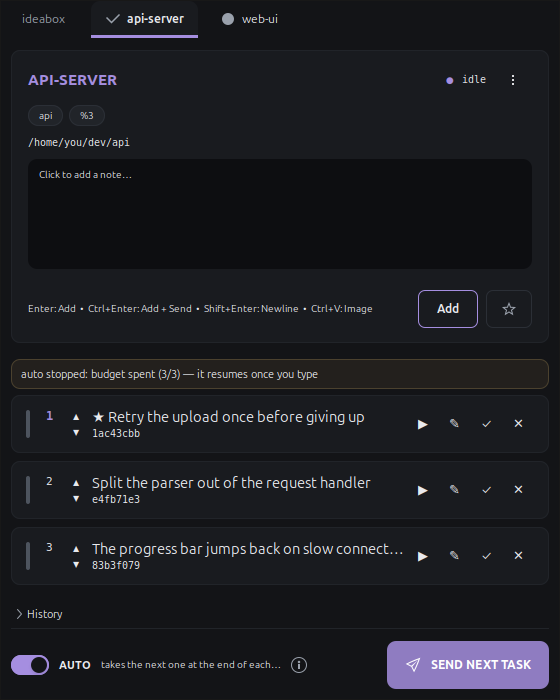
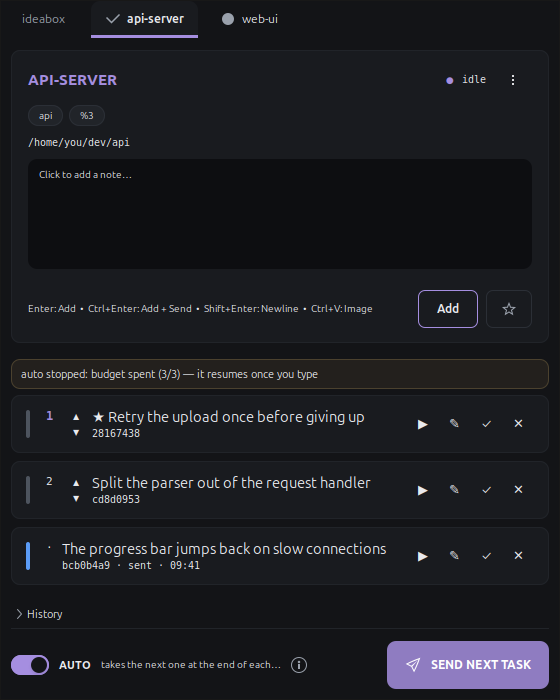
feat(gui): sent rows say when the note went out; the README shows the ideabox
A sent task's row now carries the time it was handed over ('14:32', or
'29 Aug 14:32' when that was another day), next to its stage word. The
screenshot tool renders a second frame of the window on the ideabox tab,
with two untargeted notes and a sent task seeded, and the README places
it under the ideabox paragraph.

Claude-Session: https://claude.ai/code/session_01Kx899XuTGuWs3fcfE583Rh

diff --git a/tools/screenshots.py b/tools/screenshots.py
@@ -65,6 +65,12 @@ def seed():
             ("Split the parser out of the request handler", 0),
             ("The progress bar jumps back on slow connections", 0)):
         store.add(text, target="%3", priority=priority)
+    sent = store.pending("%3")[-1]
+    store.update(sent["id"], status="sent",
+                 sent_at=jd.datetime.now().astimezone().replace(
+                     hour=9, minute=41, second=0).isoformat(timespec="seconds"))
+    store.add("Look into that flaky nightly build")
+    store.add("Write down how the release script works")
     jd.log_event("skip_budget", target="%3",
                  task={"id": "x", "text": "Cache the search index"}, used=3, cap=3)
     jd.atomic_write(jd.UPDATE_PATH, '{"checked_at": 0, "latest": ""}\n')
@@ -80,6 +86,12 @@ def styled(widget_box, width, height, path):
     ground.add(widget_box)
     off.add(ground)
     off.show_all()
+    snap(off, path)
+    return off
+
+
+def snap(off, path):
+    """Save the offscreen window as it is now; call again after a change."""
     for _ in range(4):
         while Gtk.events_pending():
             Gtk.main_iteration()
@@ -99,8 +111,13 @@ def note_window(out, theme):
             return False
         child = win.get_child()
         win.remove(child)
-        styled(child, 560, 700,
-               os.path.join(out, "note-window-%s.png" % theme))
+        off = styled(child, 560, 700,
+                     os.path.join(out, "note-window-%s.png" % theme))
+        win.app.show_inbox()
+        # The pinned tab takes its checked look from an idle callback;
+        # the frame must not be grabbed before it has run.
+        win.app.sync_tab_accent()
+        snap(off, os.path.join(out, "ideabox-%s.png" % theme))
         Gtk.main_quit()
         return False
 

diff --git a/ccdo.py b/ccdo.py
@@ -1843,6 +1843,23 @@ def latest_sent_id(tasks):
     return max(sent, key=lambda t: t.get("sent_at") or "")["id"]
 
 
+def sent_stamp(sent_at, now=None):
+    """When a task went out: '14:32' today, '29 Aug 14:32' on an earlier day.
+
+    Empty when the record carries no usable time.
+    """
+    try:
+        when = datetime.fromisoformat(sent_at or "")
+    except (TypeError, ValueError):
+        return ""
+    if when.tzinfo is not None:
+        when = when.astimezone()
+    now = now or datetime.now().astimezone()
+    if when.date() == now.date():
+        return when.strftime("%H:%M")
+    return when.strftime("%d %b %H:%M")
+
+
 def task_state(task, sess=None, latest_sent=None):
     """Which stage a task is at.
 
@@ -4754,6 +4771,9 @@ def start_gui(use_statusicon=False):
             lab.get_style_context().add_class(
                 "jd-task-sent" if t.get("status") == "sent" else "jd-task")
             extra = " · " + _(TASK_STATES[state]) if state != "queued" else ""
+            stamp = sent_stamp(t.get("sent_at")) if t.get("status") == "sent" else ""
+            if stamp:
+                extra += " · " + stamp
             meta = Gtk.Label(label="%s%s" % (t["id"], extra), xalign=0)
             meta.get_style_context().add_class("jd-meta")
             col.pack_start(lab, False, False, 0)

diff --git a/tests/test_task_state.py b/tests/test_task_state.py
@@ -40,4 +40,15 @@ for theme in (jd.THEME_DARK, jd.THEME_LIGHT):
     r.check(all("state_%s" % k in theme for k in ("queued", "sent", "working", "done")),
             "every stage has a color in the palette")
 
+# The row says when a sent task went out; the day only when it is not today.
+from datetime import datetime, timedelta
+now = datetime(2026, 8, 30, 15, 0).astimezone()
+r.check(jd.sent_stamp(now.replace(hour=14, minute=32).isoformat(), now) == "14:32",
+        "a task sent today shows the time only")
+earlier = (now - timedelta(days=1)).replace(hour=9, minute=5)
+r.check(jd.sent_stamp(earlier.isoformat(), now) == "29 Aug 09:05",
+        "a task sent on another day shows the day too")
+r.check(jd.sent_stamp(None, now) == "" and jd.sent_stamp("bozuk", now) == "",
+        "no usable time, no stamp")
+
 raise SystemExit(r.finish())

diff --git a/README.md b/README.md
@@ -349,10 +349,18 @@ live session; otherwise it falls back to `xdotool` or the queue file. The `✎`
 button on a note gives it a session; the page itself says how to add from the
 terminal (`ccdo add "text"`, or `--target <session>` to skip the inbox).
 
+<picture>
+  <source media="(prefers-color-scheme: dark)" srcset="docs/ideabox-dark.png">
+  <source media="(prefers-color-scheme: light)" srcset="docs/ideabox-light.png">
+  <img src="docs/ideabox-dark.png" width="560"
+       alt="The ideabox tab: notes with no session, and how to hand them out">
+</picture>
+
 The bar at the left edge of a task row tells where the task is: grey while
 it waits its turn, blue once it has been handed to the session, amber while
 that session is busy on the latest note it received, green in the history
-once it is done. Hover the bar for the word.
+once it is done. Hover the bar for the word. A sent task's row also says
+when it went out (the day too, if that was not today).
 
 ### Attaching an image or a file
 
